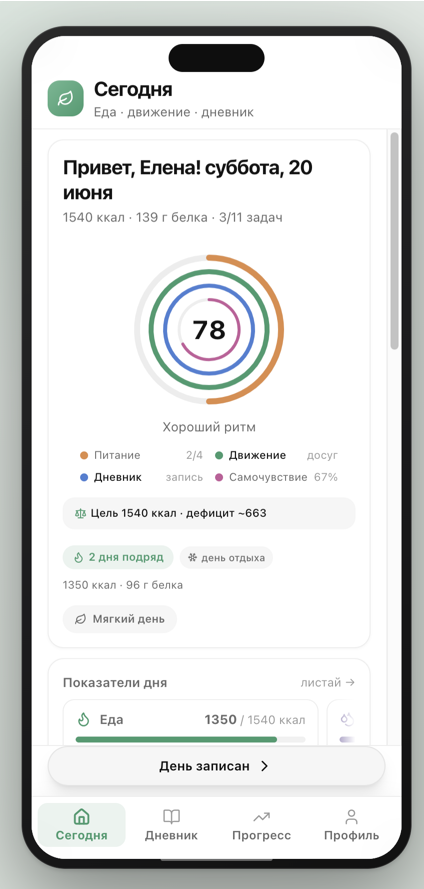
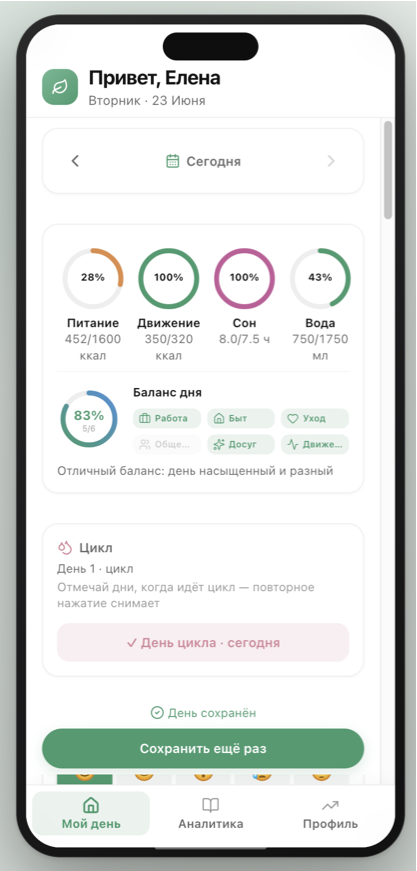
Update web-apps showcase: vibe coding copy, three app previews.
Replace vibe-projects card; Job Radar step instead of release; new screenshots.

diff --git a/src/data/showcases/webApps.ts b/src/data/showcases/webApps.ts
@@ -1,0 +1,90 @@
+import type { DemoShowcaseConfig } from "../demoShowcaseTypes";
+
+export const webAppsShowcase: DemoShowcaseConfig = {
+  id: "web-apps",
+  title: "Веб-приложения · PWA и APK",
+  previewImage: "/previews/vital-coach.png",
+  pills: [
+    { kind: "badge", label: "PWA" },
+    { kind: "badge", label: "APK" },
+    { kind: "badge", label: "офлайн" },
+    { kind: "badge", label: "vibe coding" },
+    { kind: "tech", label: "Cursor" },
+  ],
+  links: [
+    { label: "Поток", href: "https://elenasamanchuk.github.io/vital-coach/onboarding/" },
+    { label: "Republic 2077", href: "https://elenasamanchuk.github.io/republic-2077/" },
+    { label: "Job Radar", href: "https://elenasamanchuk.github.io/job-radar/" },
+  ],
+  platesLabel: "Приложения",
+  steps: [
+    {
+      id: "potok",
+      tab: "Поток",
+      focus: "Life style",
+      title: "Контроль жизни: питание, движение, сон, вода",
+      visual: "chips",
+      previewImage: "/previews/vital-coach.png",
+      chips: [
+        "Life style · баланс дня",
+        "Питание, вода, движение, сон",
+        "Настроение, досуг, общение, работа",
+        "Цикл и аналитика записей",
+        "PWA + APK Android",
+      ],
+      codeLines: [
+        "// Поток · vibe coding в Cursor",
+        '"Онбординг → персональный план дня"',
+        '"Кольца прогресса и баланс сфер жизни"',
+        '"Дневник, аналитика, профиль"',
+      ],
+      codeTabs: ["Cursor", "CoachDashboard"],
+    },
+    {
+      id: "republic",
+      tab: "Игра",
+      focus: "Republic 2077",
+      title: "Свайп-игра с непростыми решениями",
+      visual: "chips",
+      previewImage: "/previews/republic-2077.png",
+      chips: [
+        "Свайп влево / вправо — последствия",
+        "4 силы: лист · человек · винтовка · $",
+        "Случайные события и временные эффекты",
+        "Офлайн после установки APK",
+        "Десктоп-лендинг + игра в браузере",
+      ],
+      codeLines: [
+        "// Republic 2077 · vibe coding",
+        '"Кампания решений правителя республики"',
+        '"Баланс народа, казны, силы и доверия"',
+        '"GitHub Pages · APK CI · без интернета"',
+      ],
+      codeTabs: ["Cursor", "LapseGame.tsx"],
+    },
+    {
+      id: "radar",
+      tab: "Job Radar",
+      focus: "Вакансии",
+      title: "Ресурс для подбора вакансий",
+      visual: "chips",
+      previewImage: "/previews/job-radar.png",
+      chips: [
+        "Опросник навыков → профиль",
+        "Матчинг: точно / подтянуть / под вопросом",
+        "hh.ru, Remote OK, Jobicy, Upwork",
+        "Фильтры и подписки на поиски",
+        "GitHub Pages",
+      ],
+      codeLines: [
+        "// Job Radar · vibe coding",
+        '"Навыки и запрос → релевантные вакансии"',
+        '"Без хранения персональных данных"',
+        '"Ссылки на площадки для отклика"',
+      ],
+      codeTabs: ["Cursor", "matchProfile.ts"],
+    },
+  ],
+  codeTabs: ["Cursor", "App.tsx"],
+  codeLines: ["// веб-приложения · vibe coding · PWA · APK"],
+};

diff --git a/src/data/demoShowcases.ts b/src/data/demoShowcases.ts
@@ -1,11 +1,11 @@
 import type { DemoShowcaseConfig } from "./demoShowcaseTypes";
-import { vibeProjectsShowcase } from "./showcases/vibeProjects";
+import { webAppsShowcase } from "./showcases/webApps";
 import { yandexPetDayShowcase } from "./showcases/yandexPetDay";
 
 export type { DemoShowcaseConfig, DemoShowcaseLink, DemoShowcasePill, DemoShowcaseStep } from "./demoShowcaseTypes";
 
 /** Demo-карточки в блоке «Избранные проекты» — порядок на странице */
-export const DEMO_SHOWCASES: DemoShowcaseConfig[] = [yandexPetDayShowcase, vibeProjectsShowcase];
+export const DEMO_SHOWCASES: DemoShowcaseConfig[] = [yandexPetDayShowcase, webAppsShowcase];
 
 export const DEMO_SHOWCASE_BY_ID = Object.fromEntries(
   DEMO_SHOWCASES.map((showcase) => [showcase.id, showcase]),

diff --git a/src/data/portfolioOrder.ts b/src/data/portfolioOrder.ts
@@ -7,7 +7,7 @@ export const PORTFOLIO_CARD_ORDER: PortfolioCardRef[] = [
   { kind: "showcase", id: "yandex-pet-day" },
   { kind: "case", id: "growfood" },
   { kind: "case", id: "priem" },
-  { kind: "showcase", id: "vibe-projects" },
+  { kind: "showcase", id: "web-apps" },
   { kind: "case", id: "platform-stack" },
   { kind: "case", id: "fitness" },
   { kind: "case", id: "nasha" },